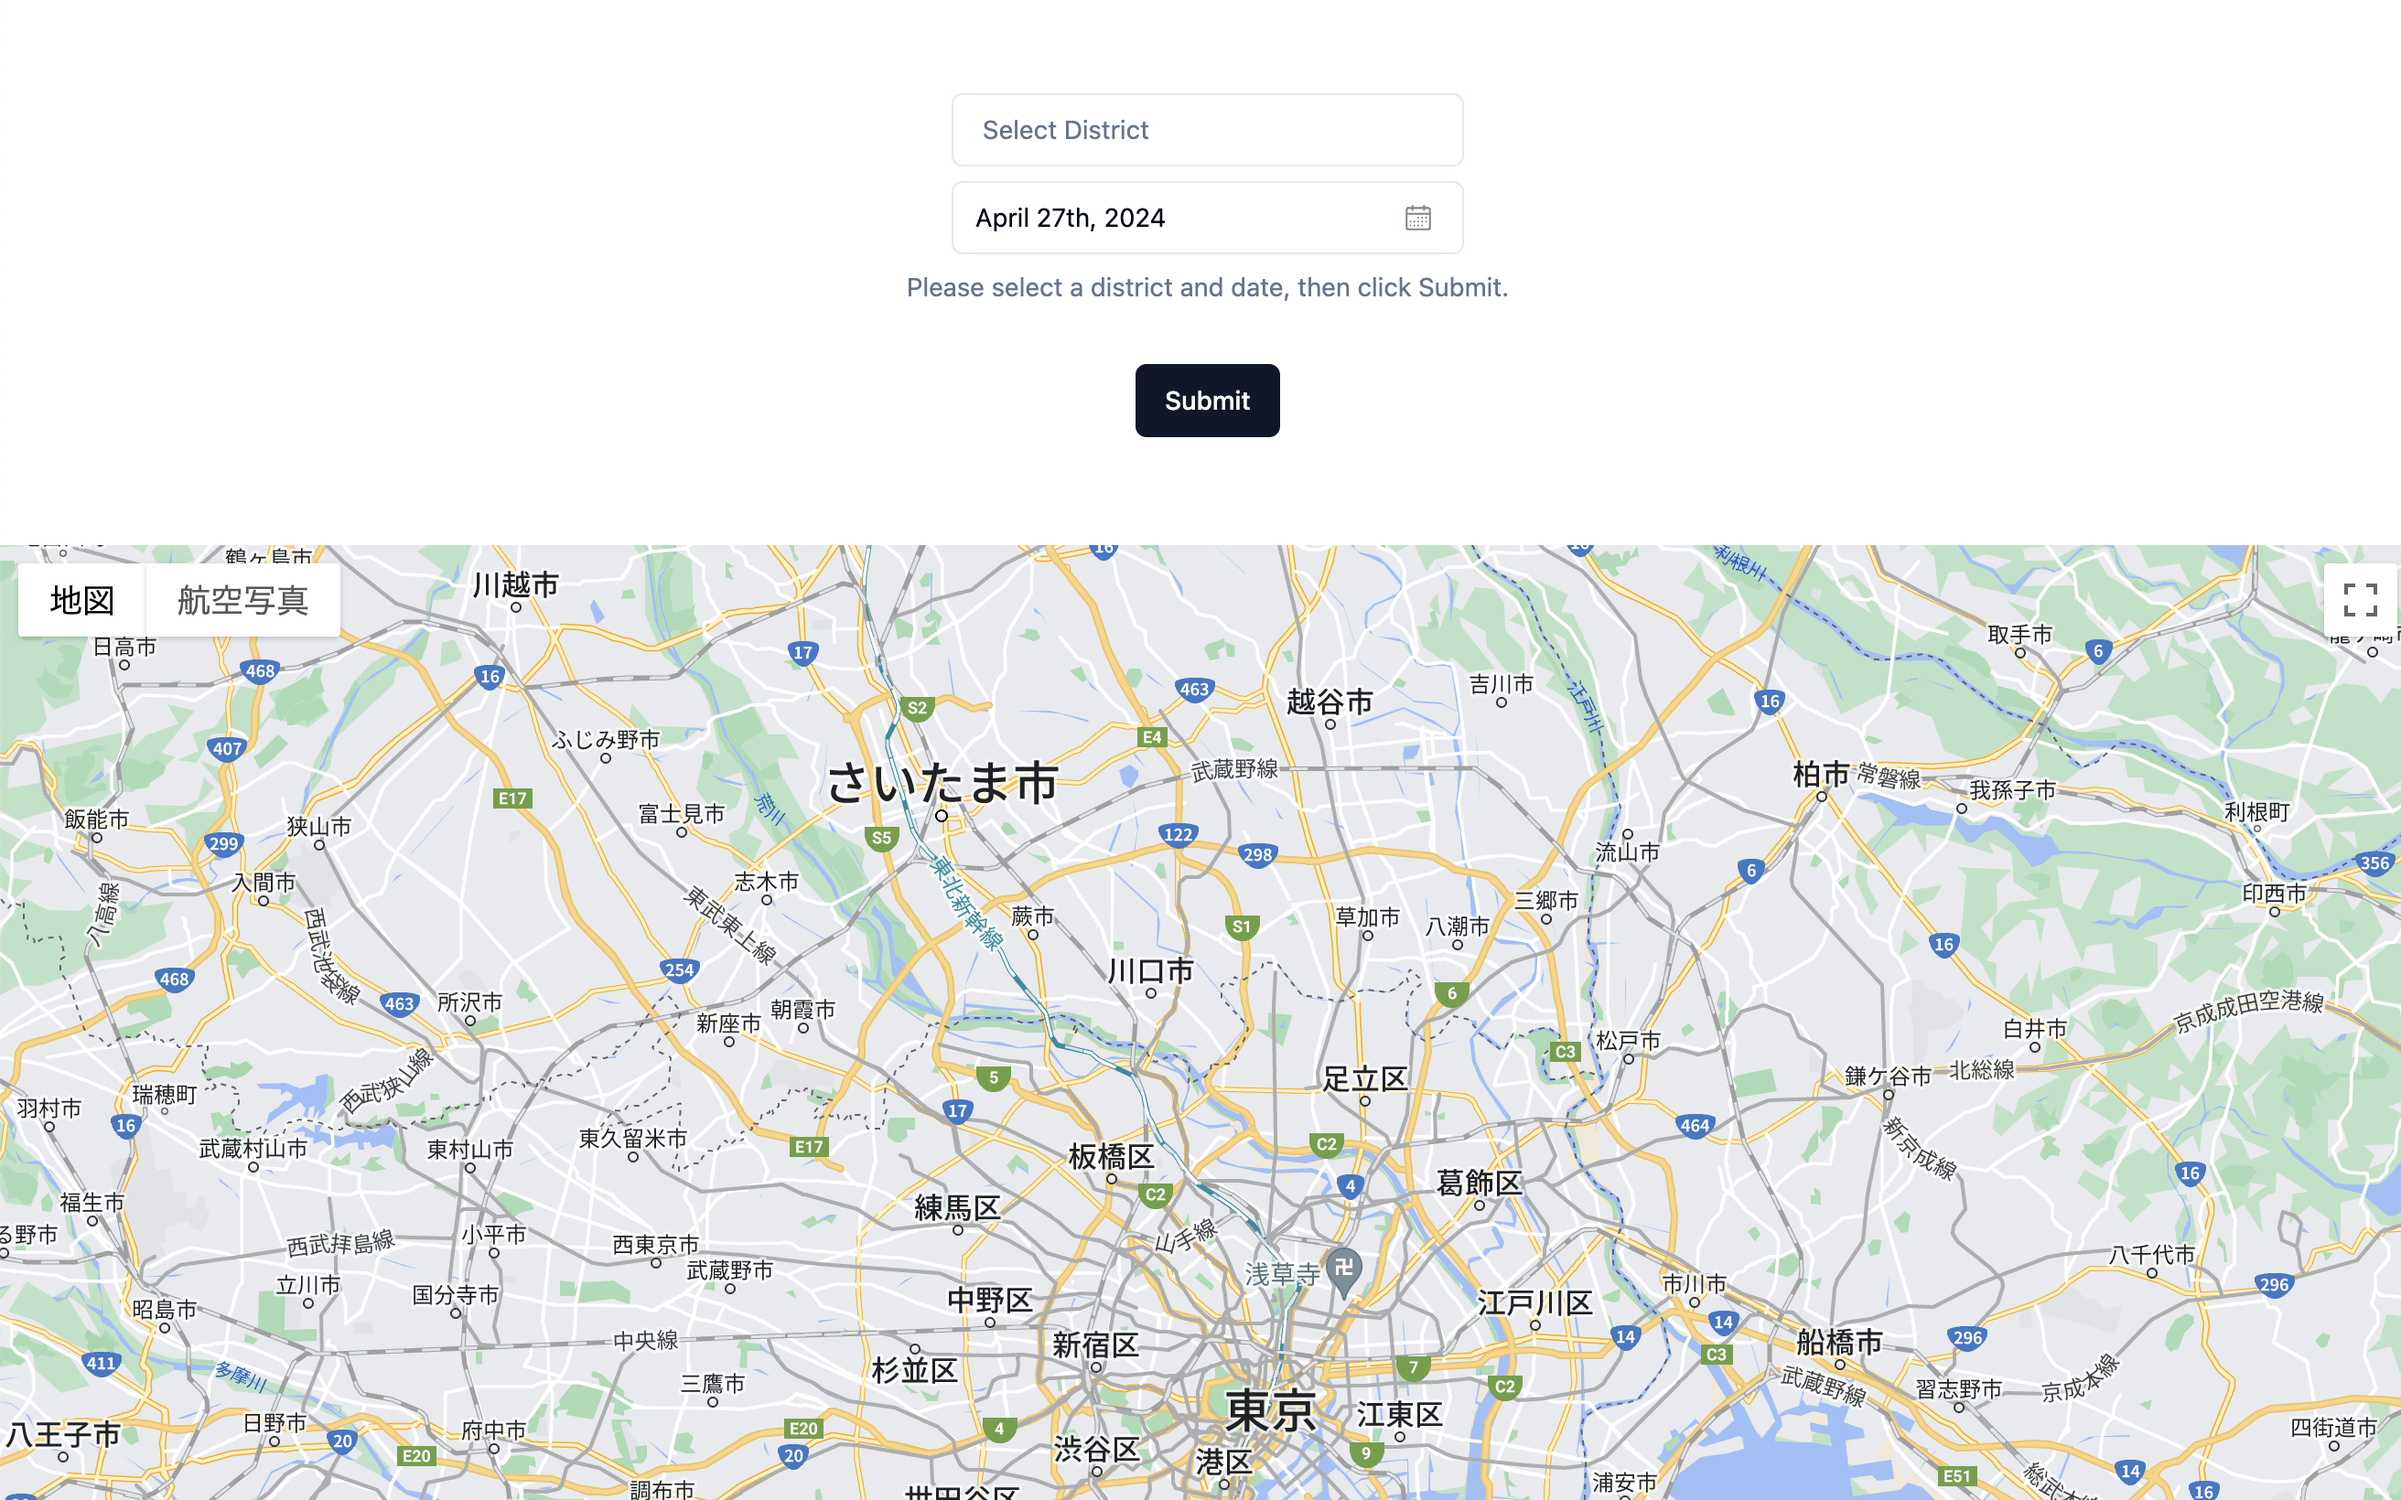
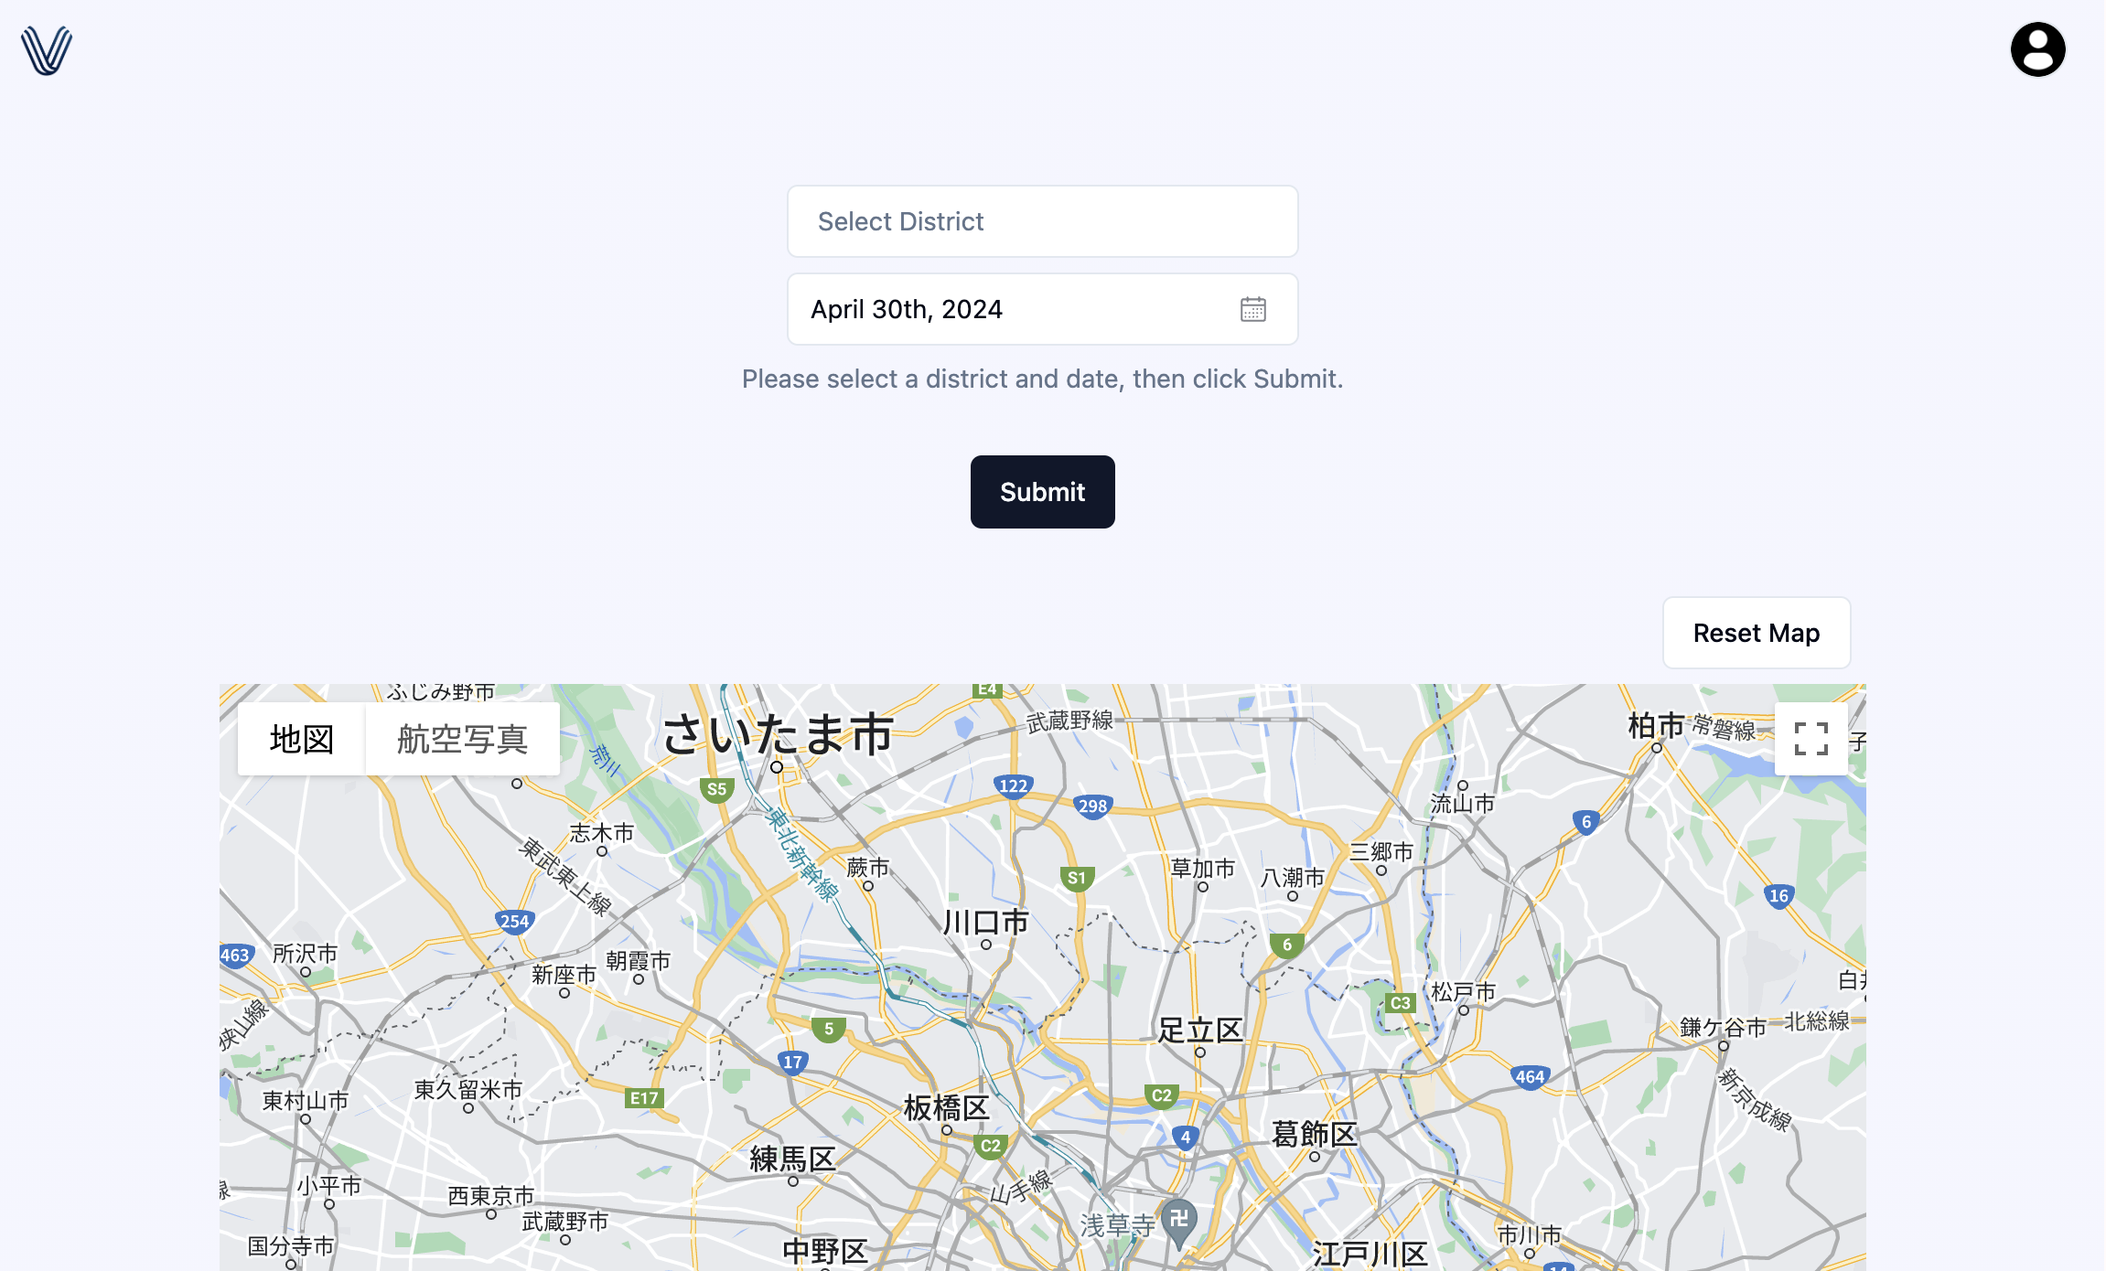
refactor folder and add Home.png

diff --git a/vex_app/frontend/src/components/ui/dropdown-menu.tsx b/vex_app/frontend/src/components/ui/dropdown-menu.tsx
@@ -1,8 +1,8 @@
 "use client"
 
-import * as React from "react"
 import * as DropdownMenuPrimitive from "@radix-ui/react-dropdown-menu"
 import { Check, ChevronRight, Circle } from "lucide-react"
+import * as React from "react"
 
 import { cn } from "@/lib/utils"
 
@@ -182,19 +182,9 @@ const DropdownMenuShortcut = ({
 DropdownMenuShortcut.displayName = "DropdownMenuShortcut"
 
 export {
-  DropdownMenu,
-  DropdownMenuTrigger,
-  DropdownMenuContent,
-  DropdownMenuItem,
-  DropdownMenuCheckboxItem,
-  DropdownMenuRadioItem,
-  DropdownMenuLabel,
-  DropdownMenuSeparator,
-  DropdownMenuShortcut,
-  DropdownMenuGroup,
-  DropdownMenuPortal,
-  DropdownMenuSub,
+  DropdownMenu, DropdownMenuCheckboxItem, DropdownMenuContent, DropdownMenuGroup, DropdownMenuItem, DropdownMenuLabel, DropdownMenuPortal, DropdownMenuRadioGroup, DropdownMenuRadioItem, DropdownMenuSeparator,
+  DropdownMenuShortcut, DropdownMenuSub,
   DropdownMenuSubContent,
-  DropdownMenuSubTrigger,
-  DropdownMenuRadioGroup,
+  DropdownMenuSubTrigger, DropdownMenuTrigger
 }
+

diff --git a/vex_app/frontend/src/pages/Home.tsx b/vex_app/frontend/src/pages/Home.tsx
@@ -28,15 +28,13 @@ export const Home = () => {
       <div style={{  position: 'absolute', right: 0, top: 0, padding: '20px' }}>
         <DropDownMenu />
       </div>
-  
 
-      <div style={{ display: 'flex', justifyContent: 'center', alignItems: 'flex-start', height: '40vh', paddingTop: '120px' }}>  
+      <div style={{ display: 'flex', justifyContent: 'center', alignItems: 'flex-start', height: '40vh', paddingTop: '110px' }}>  
         <DatePickerForm onFormSubmit={handleFormSubmit} />
       </div>
-  
 
-      <div style={{ display: 'flex', justifyContent: 'center', alignItems: 'center', height: '90vh' }}>  
-        <div style={{ width: '100%', maxWidth: '1000px', margin: '0 auto' }}>
+      <div style={{ display: 'flex', justifyContent: 'center', alignItems: 'center', height: '70vh' }}>  
+        <div style={{ width: '100%', maxWidth: '900px' }}>
           <GoogleMap eventsData={eventsData} />
         </div>
       </div>

diff --git a/vex_app/frontend/src/components/DropDownMenu.tsx b/vex_app/frontend/src/components/DropDownMenu.tsx
@@ -20,7 +20,6 @@ export const DropDownMenu = () => {
   const user = useSession();
  
  return (
-
   <DropdownMenu>
   {/* icon */}
   <DropdownMenuTrigger asChild>
@@ -31,8 +30,8 @@ export const DropDownMenu = () => {
     >
       <img
         src="/user_icon.png"
-        width="33" 
-        height="33"
+        width="40" 
+        height="40"
         alt="Avatar"
         className="overflow-hidden rounded-full"
       />

diff --git a/vex_app/frontend/src/index.css b/vex_app/frontend/src/index.css
@@ -69,6 +69,8 @@
 @layer base {
   * {
     @apply border-border;
+    scrollbar-color: #869EAF  #fffbfb;
+    scrollbar-width: thin;
   }
   body {
     @apply bg-background text-foreground;
@@ -82,6 +84,4 @@ body, html {
   width: 100%;
   /* Ensure full viewport height */
   height: 100%;
-  /* Remove default margin and padding */
-  overflow: hidden; /* Prevent scrollbars from affecting the full-screen layout */
 }

diff --git a/vex_app/frontend/src/components/googleMap.tsx b/vex_app/frontend/src/components/googleMap.tsx
@@ -93,7 +93,7 @@ export const GoogleMap = ({eventsData}: {eventsData: any[]}) => {
         <ResetMapButton />
       </div>
 
-      <div ref={mapRef} style={{ height: "100vh", width: "100%" }}>
+      <div ref={mapRef} style={{ height: "80vh", width: "100%" }}>
         Loading...
       </div>
 

diff --git a/vex_app/frontend/src/components/ui/button.tsx b/vex_app/frontend/src/components/ui/button.tsx
@@ -23,7 +23,7 @@ const buttonVariants = cva(
         default: "h-10 px-4 py-2",
         sm: "h-9 rounded-md px-3",
         lg: "h-11 rounded-md px-8",
-        icon: "h-7 w-7",
+        icon: "h-8 w-8",
       },
     },
     defaultVariants: {

diff --git a/vex_app/backend/services/scraper.py b/vex_app/backend/services/scraper.py
@@ -21,14 +21,10 @@ def scrape_events(data: dict):
     Returns:
         None
     """
-    # URLの作成
     url = f'https://www.walkerplus.com/event_list/{data["search_date"]}/{data["region_id"]}/'
     html = fetch_html(url)
-    # イベント情報の抽出
     events_dict = extract_event_info(html)
-    # イベントの詳細情報を取得
     fetch_event_details(events_dict)
-    # クライアントにJSON形式でイベント情報を返す
     logger.debug(f'Events: {events_dict}')
     return events_dict
 
@@ -75,10 +71,8 @@ def parse_event_item(item: BeautifulSoup) -> dict:
     Returns:
         dict: イベントの詳細情報
     """
-    # イベントのリンクと画像のURLを抽出
     txt_tag = item.find('a', class_='m-mainlist-item__txt')
     event_link = txt_tag.get('href') if txt_tag else None
-    # イベントの画像のURLを抽出
     img_tag = item.find('a', class_='m-mainlist-item__img').find('img')
     img_src = img_tag.get('src') if img_tag else None
     return {
@@ -100,8 +94,10 @@ def fetch_event_details(events_dict: dict):
     for uid, event in events_dict.items():
         if event['map_link']:
             html = fetch_html(event['map_link'])
+            # イベントの詳細情報を取得
             if html:
                 parse_event_details(html, event)
+        # 価格情報を取得
         if event['price_link']:
             html = fetch_html(event['price_link'])
             if html:
@@ -126,13 +122,10 @@ def parse_event_details(html: bytes, event: dict):
             td = row.find('td', class_='m-infotable__td')
             if th and td:
                 key = th.get_text(strip=True)
-                # <a>タグを探す
                 a_tag = td.find('a')
                 if a_tag and a_tag.has_attr('href'):
-                    # <a>タグが存在し、href属性がある場合、リンクをvalueに設定
                     value = a_tag['href']
                 else:
-                    # <a>タグがない場合、またはhref属性がない場合、テキストをvalueに設定
                     value = ' '.join(td.stripped_strings)
                 event[key] = value
     else:

diff --git a/vex_app/backend/services/region_service.py b/vex_app/backend/services/region_service.py
@@ -18,7 +18,7 @@ def validate_data(data: dict) -> bool:
 
 def get_region_id(region_name: str) -> int:
     """
-    地域名から地域IDを取得
+    スクレイピングを行うために地域名から地域IDを取得
     Args:
         region_name (str): 地域名
     Returns:
@@ -36,11 +36,8 @@ def get_search_date(data: dict) -> str:
     utc_dob_str = data['selectedDate']
     utc_dob = datetime.strptime(utc_dob_str, '%Y-%m-%dT%H:%M:%S.%fZ')
     logger.debug(f'utc_dob:{utc_dob}')
-    # UTCを日本時間に変更
     jst_timezone = pytz.timezone('Asia/Tokyo')
     jst_dob = utc_dob.replace(tzinfo=pytz.utc).astimezone(jst_timezone)
-    # logger.debug(f'jst_dob:{jst_dob}')
-    # 2024-04-04 00:00:00+09:00を0404の形式に変換
     dob = jst_dob.strftime('%m%d')
     logger.debug(f'dob:{dob}')
     return dob
@@ -48,13 +45,8 @@ def get_search_date(data: dict) -> str:
 def process_request_data(data: dict) -> dict:
     """リクエストデータを処理"""
     processed_data = {}
-    # リージョンのIDを取得
-    region_id = get_region_id(data['district'])
-    logger.debug(f'region_id:{region_id}')
-    processed_data['region_id'] = region_id
-    # 検索する日付を取得
+    processed_data['region_id'] = get_region_id(data['district'])
     processed_data['dob'] = data['selectedDate']
-    # mmddの形式に変換
     processed_data['search_date'] = get_search_date(data)
     logger.debug(f'processed_data:{processed_data}')
     return processed_data

diff --git a/vex_app/backend/routes/event_routes.py b/vex_app/backend/routes/event_routes.py
@@ -7,24 +7,14 @@ from services.scraper import scrape_events
 logging.basicConfig(level=logging.DEBUG)
 logger = logging.getLogger(__name__)
 
-# エンドポイントの初期化
 def init_app(app):
-    # ルートの定義
-    # POSTメソッドでのリクエストを受け付ける
     @app.route('/', methods=['POST'])
-    # postリクエストを処理
     def scrape():
         logger.debug(f'Received request: {request.args}')
-        """
-        クライアントからのリクエストを取得
-        抽出したイベント情報をJSON形式で返す
-        """
         data = request.json
         logger.debug(f'Request data: {data}')
-        # リクエストデータのバリデーション
         if not validate_data(data):
             return jsonify({'error': 'Invalid data'}), 400
-        
         try:
             # サービス層での処理を呼び出し
             processed_data = process_request_data(data)
@@ -32,7 +22,6 @@ def init_app(app):
             scrape_data = scrape_events(processed_data)
             # クライアントにJSON形式でイベント情報を返す
             return jsonify({
-                "status": 'success',
                 "data": scrape_data
             })
         except Exception as e:

diff --git a/vex_app/backend/app.py b/vex_app/backend/app.py
@@ -1,19 +1,11 @@
-"""エントリーポイント"""
 from flask import Flask
 from flask_cors import CORS
-# region_serviceのインポートを修正
 from routes.event_routes import init_app
 
-# Flaskアプリケーションの初期化
 app = Flask(__name__)
-# CORSモジュールの初期化
-# CORS（Cross-Origin Resource Sharing）の設定: CORS(app)を呼び出すことで、作成したアプリケーションにCORSポリシーを適用
-# これにより、異なるオリジン（ドメイン、スキーム、ポート）からのリクエストを許可し、
-# フロントエンドとバックエンドが異なるオリジンでホストされている場合でも、リソースの共有が可能になる
+
 CORS(app)
-# region_serviceの初期化関数を呼び出し
 init_app(app)
-# エントリーポイントの定義
+
 if __name__ == '__main__':
-    # デバッグモードでアプリケーションを起動
     app.run(debug=True, host='0.0.0.0')
